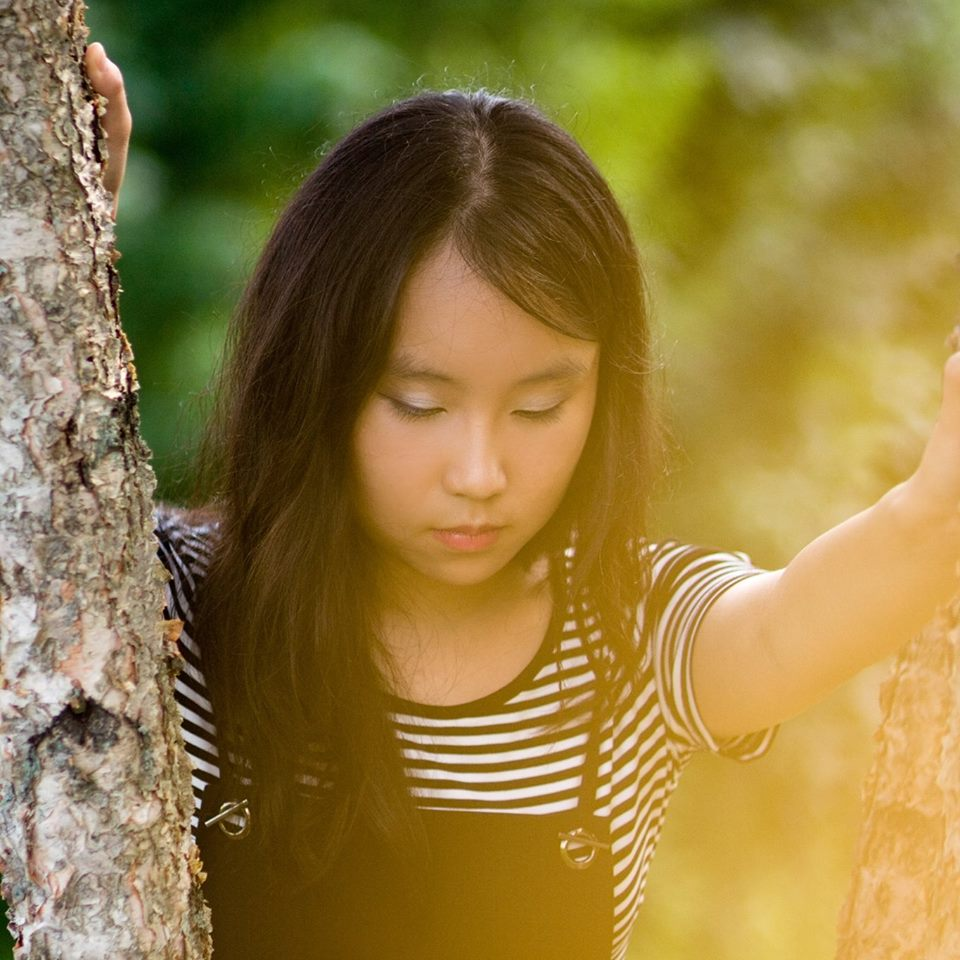
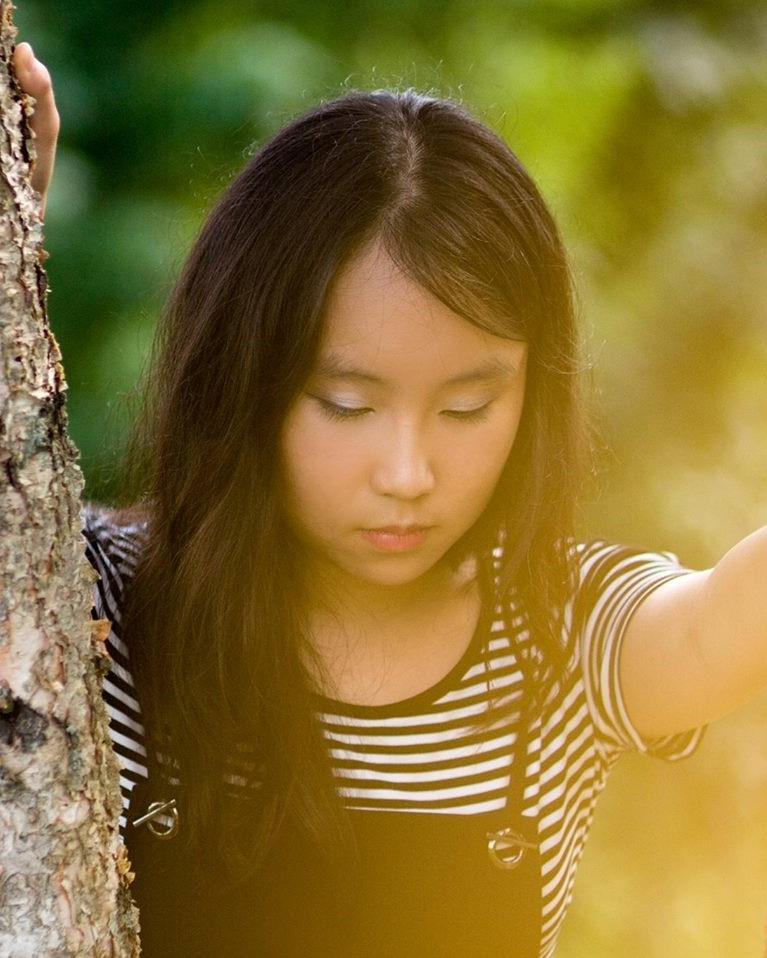
Made all profile pictures the same crop and updated edit.html to have navbar and footer

diff --git a/src/views/edit.html b/src/views/edit.html
@@ -1,19 +1,109 @@
 <!DOCTYPE html>
 <html>
 	<head>
-		<title>Profile Page</title>
+		<title>Profile - mealmate</title>
+        <meta charset="utf-8">
+        <meta name="viewport" content="width=device-width">
+        <meta name="author" content="Liu^3 - Cynthia Liu, Nanxi Liu, and Sabrina Liu">
+        <meta name="description" content="Join us in mealmate, where you'll discover new students through dining together!">
+        <meta name="keywords" content="college students meal, dining hall, mealmate, MIT, eat, new friends">    
+        <link rel="stylesheet" href="https://maxcdn.bootstrapcdn.com/bootstrap/3.3.7/css/bootstrap.min.css">
+        <link rel="stylesheet" href="https://cdnjs.cloudflare.com/ajax/libs/font-awesome/4.7.0/css/font-awesome.min.css">
+        <link rel="shortcut icon" type="image/x-icon" href="../../public/img/favicon.png"/>
+        <script src="https://ajax.googleapis.com/ajax/libs/jquery/3.2.1/jquery.min.js"></script>
+        <script src="https://maxcdn.bootstrapcdn.com/bootstrap/3.3.7/js/bootstrap.min.js"></script>
+        <style>
+        .navbar {
+              margin-bottom: 0;
+              border-radius: 0;
+              background-color: #66A25C;
+              color: #FFF;
+              padding: 1% 0;
+              font-size: 1.2em;
+              border: 0;
+          }
+            
+          .navbar-brand {
+              float: left;
+              min-height: 55px;
+              padding: 0 15px 5px;
+          }
+            
+          .navbar-inverse .navbar-nav .active a, .navbar-inverse .navbar-nav .active a:focus, .navbar-inverse .navbar-nav .active a:hover {
+              color: #FFF;
+              background-color: #66A25C;
+          }
+            
+          .navbar-inverse .navbar-nav li a{
+              color: #D5D5D5;
+          }
+        
+          .container {
+              margin: 4% auto;
+          }
+            
+          footer {
+              width: 100%;
+              background-color: #66A25C;
+              padding: 5%;
+              color: #FFF;
+          }
+
+          .fa {
+              padding: 15px;
+              font-size: 25px;
+              color: #D5D5D5;
+          }
+
+          .fa:hover {
+              color: #FFF;
+              text-decoration: none;
+          }
+
+          @media (max-width: 900px) {
+              .fa{
+                  font-size: 20px;
+                  padding: 10px;
+              }
+          }
+
+          @media (max-width: 600px) {
+              .carousel-caption {
+                  display: none;
+              }
+              #icon {
+                  max-width: 150px;
+              }
+              h2 {
+                  font-size: 1.7em;
+              }
+          }
+        </style>
 	</head>
 	<body>
-		<link rel="stylesheet" href="https://maxcdn.bootstrapcdn.com/bootstrap/4.0.0-beta.2/css/bootstrap.min.css" integrity="sha384-PsH8R72JQ3SOdhVi3uxftmaW6Vc51MKb0q5P2rRUpPvrszuE4W1povHYgTpBfshb" crossorigin="anonymous">	
 		<script src="https://ajax.googleapis.com/ajax/libs/jquery/3.2.1/jquery.min.js"></script>
 
-		<!-- Navbar -->
-		<nav class="navbar navbar-expand-lg navbar-dark bg-primary">
-			<div class="navbar-brand">mealmate</div>
-			<div class="navbar-nav" id="nav-item-container">
-				<!-- navbar items are inserted here -->
-			</div>
-		</nav>
+		<nav class="navbar navbar-inverse"> <!-- navbar -->
+        <div class="container-fluid">
+            <div class="navbar-header">
+                <button type="button" class="navbar-toggle" data-toggle="collapse" data-target="#myNavbar">
+                    <span class="icon-bar"></span>
+                    <span class="icon-bar"></span>
+                    <span class="icon-bar"></span>
+                </button>
+                <a class="navbar-brand" href="#"><img src="../../public/img/logo.png"></a>
+            </div>
+            <div class="collapse navbar-collapse" id="myNavbar">
+                <ul class="nav navbar-nav navbar-right">
+                    <li><a href="index.html">Home</a></li>
+                    <li><a href="#">Profile</a></li>
+                    <li><a href="edit.html">Edit Profile</a></li>
+                    <li><a href="matches.html">Matches</a></li>
+                    <li><a href="#">Login</a></li>
+                </ul>
+            </div>
+        </div>
+        </nav>
 
 		<div class='container-fluid'>
 			<div id='userName'>
@@ -79,7 +169,28 @@
 			</div>
 
 		</div>
-
+        <footer class="container-fluid text-center">
+            <div class="row">
+                <div class="col-sm-4">
+                    <h3>Contact Us</h3>
+                    <br>
+                    <h4>cynliu98@mit.edu</h4>
+                    <h4>nanxi@mit.edu</h4>
+                    <h4>sabliu@mit.edu</h4>
+                </div>
+                <div class="col-sm-4">
+                    <h3>Connect</h3>
+                    <a href="#" class="fa fa-facebook"></a>
+                    <a href="#" class="fa fa-twitter"></a>
+                    <a href="#" class="fa fa-google"></a>
+                    <a href="#" class="fa fa-linkedin"></a>
+                    <a href="#" class="fa fa-youtube"></a>
+                </div>
+                <div class="col-sm-4">
+                    <img src="../../public/img/logo.png" class="icon">
+                </div>
+            </div>
+        </footer>
 	</body>
 	<script src="/static/js/api.js"></script>
 	<script src="/static/js/navbar.js"></script>

diff --git a/src/views/index.html b/src/views/index.html
@@ -61,14 +61,14 @@
               color: #FFF;
           }
 
-          .fa {
+          .fa { 
               padding: 15px;
               font-size: 25px;
-              color: #FFF;
+              color: #D5D5D5;
           }
 
           .fa:hover {
-              color: #D5D5D5;
+              color: #FFF;
               text-decoration: none;
           }
 

diff --git a/src/views/profile.html b/src/views/profile.html
@@ -52,11 +52,11 @@
           .fa {
               padding: 15px;
               font-size: 25px;
-              color: #FFF;
+              color: #D5D5D5;
           }
 
           .fa:hover {
-              color: #D5D5D5;
+              color: #FFF;
               text-decoration: none;
           }
 
